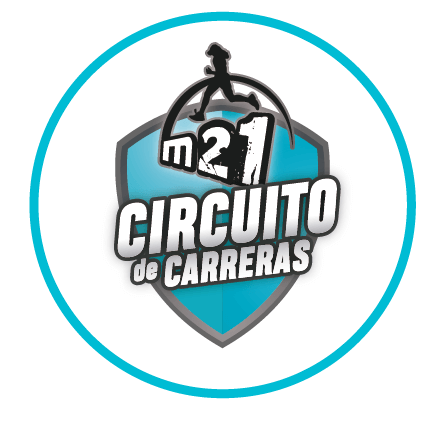
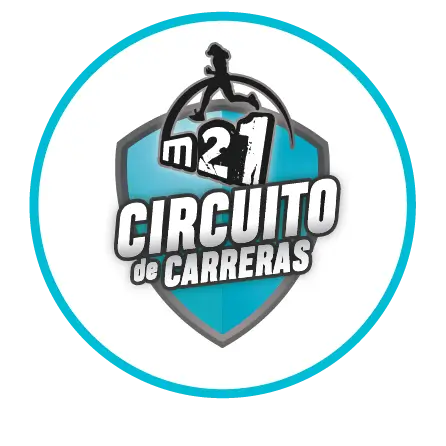
text

diff --git a/src/Components/Carreras/ElDesafio/Resultados/ResultadosDesafio.js b/src/Components/Carreras/ElDesafio/Resultados/ResultadosDesafio.js
@@ -3,7 +3,7 @@ import { Link, useHistory } from 'react-router-dom';
 import Button from 'react-bootstrap/Button';
 
 /* Img */
-import ResultadosLogo from '../../../../Img/Resultados/Logo-Desafio.png'
+import ResultadosLogo from '../../../../Img/Resultados/Logo-Desafio.webp'
 
 import '../Resultados/resultadosDesafio.css'
 
@@ -18,13 +18,13 @@ function ResultadosDesafio() {
             <h3 className='titulo'>Resultados El Desafío</h3>
             
             <article className='cards'>
-            <img src={ResultadosLogo} className='logo' />
+            <img src={ResultadosLogo} className='logo' alt='Resultados Desafío' />
             <p className='texto'>CLASIFICACION GENERAL 10º EDICION M42 DE MONTAÑA - VILLA VENTANA 2022</p>
             <Button variant="success" size='lg' className='boton'><Link to='https://www.bahiacorre.com.ar/subir/mispdf/GENERALM42A.pdf' target="_blank" rel="noopener noreferrer">RESULTADOS</Link></Button>
             </article>
 
             <article className='cards'>
-            <img src={ResultadosLogo} className='logo' />
+            <img src={ResultadosLogo} className='logo' alt='Resultados Desafío' />
             <p className='texto'>CLASIFICACION CATEGORIAS 10º EDICION M42 DE MONTAÑA - VILLA VENTANA 2022</p>
             <Button variant="success" size='lg' className='boton'><Link to='https://www.bahiacorre.com.ar/subir/mispdf/CATEGORIASM42A.pdf' target="_blank" rel="noopener noreferrer">RESULTADOS</Link></Button>
             </article>

diff --git a/src/Components/Footer/Footer.js b/src/Components/Footer/Footer.js
@@ -23,9 +23,9 @@ function Footer() {
     <div className="footer-social">
       <h2>SEGUINOS</h2>
       <div className="social-icons">
-        <Link target='_blank' rel="noopener noreferrer" to='https://www.instagram.com/fcproducc/'><i className="fab fa-instagram"></i></Link>
-        <Link target='_blank' rel="noopener noreferrer" to='https://www.youtube.com/user/RevistaDesafios'><i className="fab fa-youtube"></i></Link>
-        <Link target='_blank' rel="noopener noreferrer" to='https://www.facebook.com/fcproducc/'> <i className="fab fa-facebook"></i></Link>
+        <Link target='_blank' rel="noopener noreferrer" to='https://www.instagram.com/fcproducc/' aria-label='Instagram'><i className="fab fa-instagram"></i></Link>
+        <Link target='_blank' rel="noopener noreferrer" to='https://www.youtube.com/user/RevistaDesafios' aria-label='Youtube'><i className="fab fa-youtube"></i></Link>
+        <Link target='_blank' rel="noopener noreferrer" to='https://www.facebook.com/fcproducc/' aria-label='Facebook'> <i className="fab fa-facebook"></i></Link>
       </div>
     </div>
     <div className="footer-nav">

diff --git a/src/Components/Carreras/Circuito/Circuito.js b/src/Components/Carreras/Circuito/Circuito.js
@@ -5,11 +5,11 @@ import Ratio from 'react-bootstrap/Ratio';
 
 /* Imágenes */
 import CircuitoLogo from '../../../Img/index/circuito.webp';
-import gralBelgrano from '../../../Img/Circuito/gralBelgrano.jpg';
-import GeneralBelgrano from '../../../Img/Circuito/gralBelgrano2.jpg';
-import Sierra from '../../../Img/Circuito/sierra.jpg';
-import MarDeLasPampas from '../../../Img/Circuito/marDeLasPampas.jpg';
-import PampaFly from '../../../Img/Circuito/pampaFly.jpg';
+import gralBelgrano from '../../../Img/Circuito/gralbelgrano.webp';
+import GeneralBelgrano from '../../../Img/Circuito/gralbelgrano2.webp';
+import Sierra from '../../../Img/Circuito/sierra.webp';
+import MarDeLasPampas from '../../../Img/Circuito/mardelaspampas.webp';
+import PampaFly from '../../../Img/Circuito/pampafly.webp';
 
 import './circuito.css';
 

diff --git a/src/Components/BannerDesktop/BannerDesktop.js b/src/Components/BannerDesktop/BannerDesktop.js
@@ -1,9 +1,9 @@
 import React from 'react';
 import Carousel from 'react-bootstrap/Carousel';
 
-import Banner1 from '../../Img/index/BannerDesktop/banner.jpg';
-import Banner2 from '../../Img/index/BannerDesktop/banner2.jpg';
-import Banner3 from '../../Img/index/BannerDesktop/banner3.jpg';
+import Banner1 from '../../Img/index/BannerDesktop/banner.webp';
+import Banner2 from '../../Img/index/BannerDesktop/banner2.webp';
+import Banner3 from '../../Img/index/BannerDesktop/banner3.webp';
 
 import '../BannerDesktop/bannerDesktop.css';
 

diff --git a/src/Components/Carreras/M42/Index/M42.js b/src/Components/Carreras/M42/Index/M42.js
@@ -5,7 +5,7 @@ import Button from 'react-bootstrap/Button';
 
 /* Imágenes */
 import m42General from '../../../../Img/m42/flyerM42.webp';
-import Remera from '../../../../Img/m42/remera.jpg';
+import Remera from '../../../../Img/m42/remera.webp';
 
 /* Documentos */
 import AutorizacionMenores from '../../../../PDF/autMenores.pdf';

diff --git a/src/Components/Secciones/Nosotros/Nosotros.js b/src/Components/Secciones/Nosotros/Nosotros.js
@@ -2,7 +2,7 @@ import React from "react";
 import { Link } from "react-router-dom";
 
 import NosotrosImg from "../../../Img/nosotros/nosotros.jpg";
-import FerCAM from "../../../Img/nosotros/fercam.jpg";
+import FerCAM from "../../../Img/nosotros/fercam.webp";
 
 import "./nosotros.css";
 

diff --git a/src/Components/Secciones/Error404/Error.js b/src/Components/Secciones/Error404/Error.js
@@ -3,7 +3,7 @@ import Button from 'react-bootstrap/Button';
 import { Link } from 'react-router-dom';
 
 /* img */
-import Error404 from '../../../Img/index/404.png';
+import Error404 from '../../../Img/index/404.webp';
 
 import '../Error404/error.css'
 

diff --git a/src/Components/Utilidades/BotonWP/BotonWP.js b/src/Components/Utilidades/BotonWP/BotonWP.js
@@ -12,6 +12,7 @@ function BotonWP() {
       className="whatsapp-button"
       target="_blank"
       rel="noopener noreferrer"
+      aria-label='Whatsapp'
     >
       <FaWhatsapp />
     </Link>
